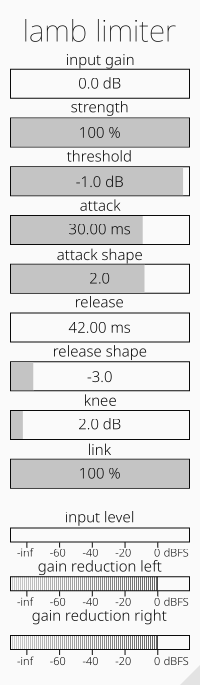
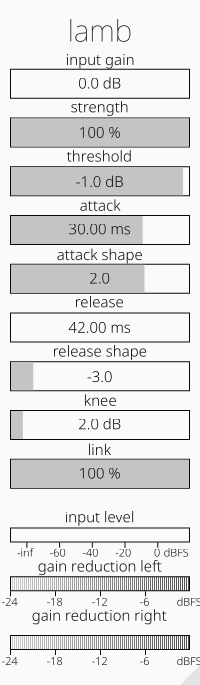
fix plugin name label

diff --git a/src/editor.rs b/src/editor.rs
@@ -46,7 +46,7 @@ pub(crate) fn create(
         .build(cx);
 
         VStack::new(cx, |cx| {
-            Label::new(cx, "lamb limiter")
+            Label::new(cx, "lamb")
                 .font_family(vec![FamilyOwned::Name(String::from(assets::NOTO_SANS))])
                 .font_weight(FontWeightKeyword::Thin)
                 .font_size(30.0)
